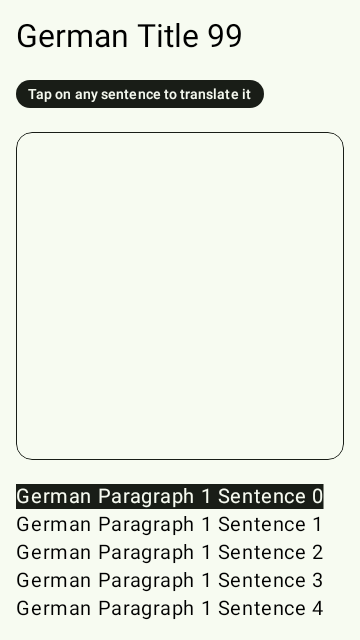
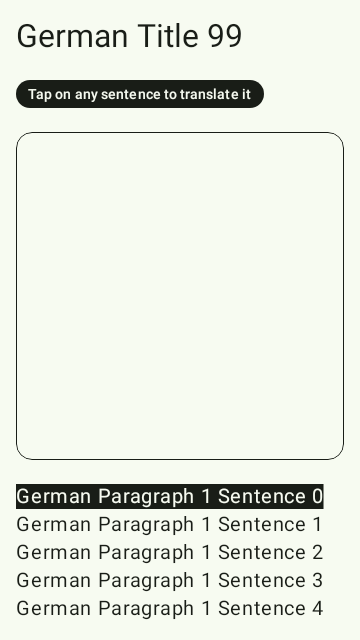
fix: use correct text styling for dark theme
The stories are displaying the incorrect colours on dark theme. Resolve this by defaulting to the local content color.

diff --git a/app/src/main/java/input/comprehensible/ui/components/SelectableText.kt b/app/src/main/java/input/comprehensible/ui/components/SelectableText.kt
@@ -2,6 +2,7 @@ package input.comprehensible.ui.components
 
 import androidx.compose.foundation.gestures.detectTapGestures
 import androidx.compose.foundation.text.BasicText
+import androidx.compose.material3.LocalContentColor
 import androidx.compose.material3.MaterialTheme
 import androidx.compose.material3.Surface
 import androidx.compose.runtime.Composable
@@ -12,11 +13,13 @@ import androidx.compose.runtime.setValue
 import androidx.compose.ui.Modifier
 import androidx.compose.ui.graphics.Color
 import androidx.compose.ui.input.pointer.pointerInput
+import androidx.compose.ui.text.AnnotatedString
 import androidx.compose.ui.text.SpanStyle
 import androidx.compose.ui.text.TextLayoutResult
 import androidx.compose.ui.text.TextRange
 import androidx.compose.ui.text.TextStyle
 import androidx.compose.ui.text.buildAnnotatedString
+import androidx.compose.ui.text.withStyle
 import input.comprehensible.ui.theme.ComprehensibleInputTheme
 import input.comprehensible.util.DefaultPreview
 
@@ -41,6 +44,7 @@ fun SelectableText(
         text = text,
         selectedText = selectedText,
         span = span,
+        defaultStyle = style,
     )
     var textLayoutResult by remember { mutableStateOf<TextLayoutResult?>(null) }
     BasicText(
@@ -76,11 +80,39 @@ private fun rememberHighlightedText(
     text: String,
     selectedText: TextRange?,
     span: SpanStyle,
-) = remember(text, selectedText, span) {
-    buildAnnotatedString {
-        append(text)
-        selectedText?.let { range ->
-            addStyle(span, range.min, range.max)
+    defaultStyle: TextStyle,
+): AnnotatedString {
+    val defaultSpanStyle = defaultStyle.toSpanStyle().copy(
+        background = Color.Transparent,
+        color = LocalContentColor.current,
+    )
+    return remember(text, selectedText) {
+        buildAnnotatedString {
+            val selectionStartIndex = selectedText?.start?.coerceAtLeast(0)
+            val selectionEndIndex = selectedText?.end?.coerceAtMost(text.length)
+            withStyle(defaultSpanStyle) {
+                append(
+                    text.substring(
+                        startIndex = 0,
+                        endIndex = selectionStartIndex ?: text.lastIndex
+                    )
+                )
+            }
+            withStyle(span) {
+                append(
+                    text.substring(
+                        startIndex = selectionStartIndex ?: text.lastIndex,
+                        endIndex = selectionEndIndex ?: text.lastIndex,
+                    )
+                )
+            }
+            withStyle(defaultSpanStyle) {
+                append(
+                    text.substring(
+                        startIndex = selectionEndIndex ?: text.lastIndex
+                    )
+                )
+            }
         }
     }
 }
